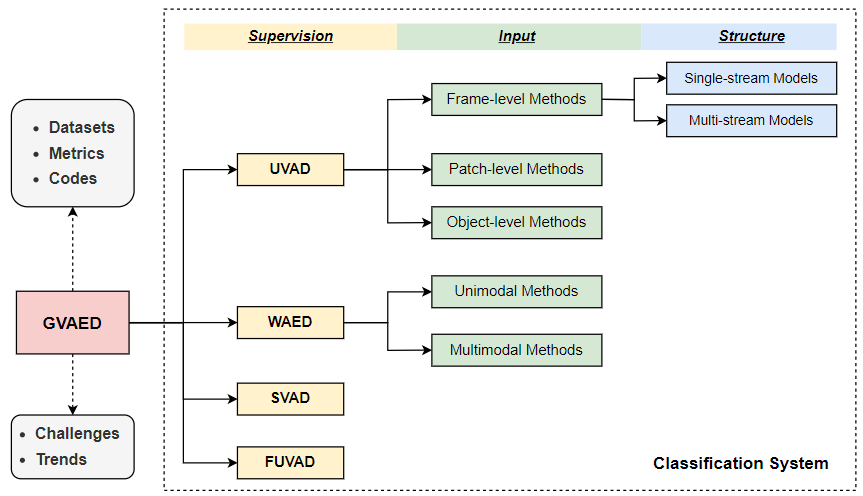
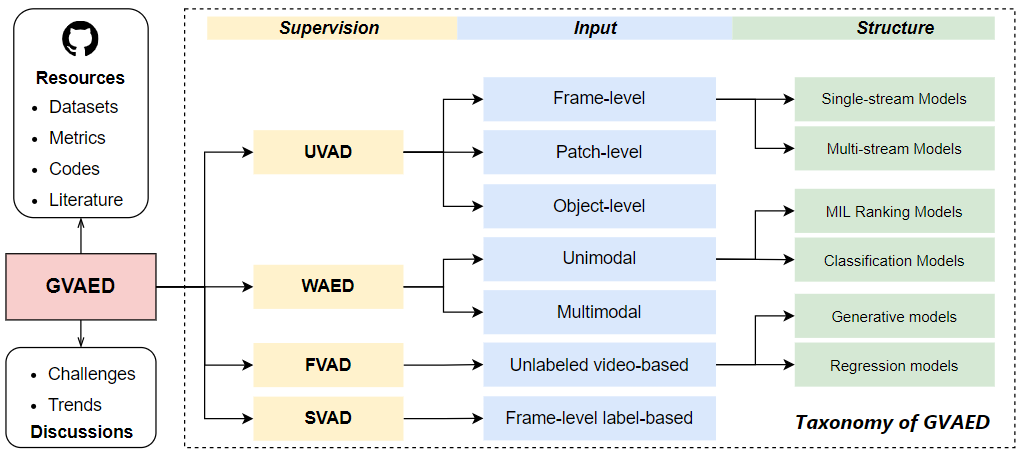
update refs

diff --git a/README.md b/README.md
@@ -1,9 +1,11 @@
-# Generalized Video Anomaly Event Detection: Systematic Classification and Comparison of Deep Models
+# Generalized Video Anomaly Event Detection: Systematic Taxonomy and Comparison of Deep Models
 
-This is the official repository for our paper entitled *“Generalized Video Anomaly Event Detection: Systematic Classification and Comparison of Deep Models”* submitted to [ACM Computing Surveys](https://dl.acm.org/journal/csur). We summarize existing deep learning-based methods for video anomaly event detection (VAED) and classify the deep models  into four categories: unsupervised, weakly supervised, fully unsupervised, and hybrid supervised, according to the supervised signal for training. In addition, we collate the public VAED datasets and available codes.
+This is the official repository for our [paper](https://arxiv.org/abs/2302.05087) entitled *“Generalized Video Anomaly Event Detection: Systematic Taxonomy and Comparison of Deep Models”* submitted to [ACM Computing Surveys](https://dl.acm.org/journal/csur). We summarize existing deep learning-based video anomaly event detection (VAED) methods and classify these deep models  into four categories: unsupervised, weakly supervised, supervised, and fully unsupervised according to the supervised signal for training. In addition, we collate the public VAED datasets and available codes.
 
 ## Overview
-![overview](overview.png)
+
+![overview.png](C:\Users\86188\Desktop\综述\Git\overview.png)
+
 ## Datasets
 
 | Dataset                                                                                                                                 | #Videos | #Normal | #Abnormal | #Scenes | #Anomalies |
@@ -574,11 +576,21 @@ $^{***}$ *This datatset include a validation set that contains 64 videos.*
   Detecting violence in video is a challenging task due to its complex scenarios and great intra-class variability. Most previous works specialize in the analysis of appearance or motion information, ignoring the co-occurrence of some audio and visual events. Physical conflicts such as abuse and fighting are usually accompanied by screaming, while crowd violence such as riots and wars are generally related to gunshots and explosions. Therefore, we propose a novel audio-guided multimodal violence detection framework. First, deep neural networks are used to extract visual and audio features, respectively. Then, a Cross-Modal Awareness Local-Arousal (CMA-LA) network is proposed for cross-modal interaction, which implements audio-to-visual feature enhancement over temporal dimension. The enhanced features are then fed into a multilayer perceptron (MLP) to capture high-level semantics, followed by a temporal convolution layer to obtain high-confidence violence scores. To verify the effectiveness of the proposed method, we conduct experiments on a large public violent video dataset, i.e., XD-Violence. Experimental results demonstrate that our model outperforms several methods and achieves new state-of-the-art performance.
   ```
 
-### 3. Supervised & Fully Unsupervised Methods
+### 3. Supervised Video Anomaly Detection
 
-#### 3.1 Supervised
+- [Background-bias](https://dl.acm.org/doi/abs/10.1145/3343031.3350998): Exploring Background-bias for Anomaly Detection in Surveillance Videos, `ACM MM`
+  
+  ```markdown
+  Anomaly detection in surveillance videos, as a special case of video-based action recognition, is an important topic in multimedia community and public security. Currently, most of the state-of-the-art methods utilize deep learning to recognize the patterns of anomaly or action. However, whether deep neural networks really learn the essence of the anomaly or just remember the background is an important but often neglected problem. In this paper, we develop a series of experiments to validate the existence of background-bias phenomenon, which makes deep networks tend to learn the background information rather than the pattern of anomalies to recognize abnormal behavior. To solve it, we first re-annotate the largest anomaly detection dataset and design a new evaluation metric to measure whether the models really learn the essence of anomalies. Then, we propose an end-to-end trainable, anomaly-area guided framework, where we design a novel region loss to explicitly drive the network to learn where is anomalous region. Besides, given very deep networks and scarce training data for anomaly, our architecture is trained with a meta learning module to prevent severe overfitting. Extensive experiments on the benchmark show that our approach outperforms other methods on both the previous and our proposed evaluation metrics through reducing the influence of the background information.
+  ```
 
-#### 3.2 Fully Unsupervised
+- [Ano-Locality](https://arxiv.org/abs/1901.10364): Anomaly Locality in Video Surveillance, `Arxiv`
+  
+  ```markdown
+  This paper strives for the detection of real-world anomalies such as burglaries and assaults in surveillance videos. Although anomalies are generally local, as they happen in a limited portion of the frame, none of the previous works on the subject has ever studied the contribution of locality. In this work, we explore the impact of considering spatiotemporal tubes instead of whole-frame video segments. For this purpose, we enrich existing surveillance videos with spatial and temporal annotations: it is the first dataset for anomaly detection with bounding box supervision in both its train and test set. Our experiments show that a network trained with spatiotemporal tubes performs better than its analogous model trained with whole-frame videos. In addition, we discover that the locality is robust to different kinds of errors in the tube extraction phase at test time. Finally, we demonstrate that our network can provide spatiotemporal proposals for unseen surveillance videos leveraging only video-level labels. By doing, we enlarge our spatiotemporal anomaly dataset without the need for further human labeling.
+  ```
+
+### 3 Fully Unsupervised Video Anomaly Detection
 
 - [MC2ST](https://chunliangli.github.io/docs/18bmvcAnomaly.pdf): Classifier Two-Sample Test for Video Anomaly Detections, `BMVC`, [Code](https://github.com/MYusha/Video-Anomaly-Detection)
   
@@ -612,13 +624,19 @@ $^{***}$ *This datatset include a validation set that contains 64 videos.*
   Video anomaly detection is well investigated in weakly supervised and one-class classification (OCC) settings. However, unsupervised video anomaly detection is quite sparse, likely because anomalies are less frequent in occurrence and usually not well-defined, which when coupled with the absence of ground truth supervision, could adversely affect the convergence of learning algorithms. This problem is challenging yet rewarding as it can completely eradicate the costs of obtaining laborious annotations and enable such systems to be deployed without human intervention. To this end, we propose a novel unsupervised Generative Cooperative Learning (GCL) approach for video anomaly detection that exploits the low frequency of anomalies towards building a cross-supervision between a generator and a discriminator. In essence, both networks get trained in a cooperative fashion, thereby facilitating the overall convergence. We conduct extensive experiments on two large-scale video anomaly detection datasets, UCF crime and ShanghaiTech. Consistent improvement over the existing state-of-the-art unsupervised and OCC methods corroborate the effectiveness of our approach.
   ```
 
-## Related topics
+## Tools
+
+`anomalib`: An anomaly detection library comprising state-of-the-art algorithms and features such as experiment management, hyper-parameter optimization, and edge inference. [Project Page](https://github.com/openvinotoolkit/anomalib).
+
+`PyAnomaly`: A PyTorch toolbox for video anomaly detection. [Paper](https://dl.acm.org/doi/10.1145/3394171.3414540), [Project Page](https://github.com/YuhaoCheng/PyAnomaly).
+
+## Related Topics
 
 - Domain Adaptation/Generalization
 
 - Meta learning
 
-- ~~Few/zero shot learning~~
+- Few/zero shot learning
 
 - Contrastive Learning
 
@@ -635,12 +653,10 @@ $^{***}$ *This datatset include a validation set that contains 64 videos.*
 If you find our work useful, please cite our paper:
 
 ```latex
-@inproceedings{TMAE,
-  title={Detecting Anomalous Events from Unlabeled Videos via Temporal Masked Auto-Encoding},
-  author={Hu, Jingtao and Yu, Guang and Wang, Siqi and Zhu, En and Cai, Zhiping and Zhu, Xinzhong},
-  booktitle={2022 IEEE International Conference on Multimedia and Expo (ICME)},
-  pages={1--6},
-  year={2022},
-  organization={IEEE}
+@article{liu2023generalized,
+  title={Generalized Video Anomaly Event Detection: Systematic Taxonomy and Comparison of Deep Models},
+  author={Liu, Yang and Yang, Dingkang and Wang, Yan and Liu, Jing and Song, Liang},
+  journal={arXiv preprint arXiv:2302.05087},
+  year={2023}
 }
 ```
